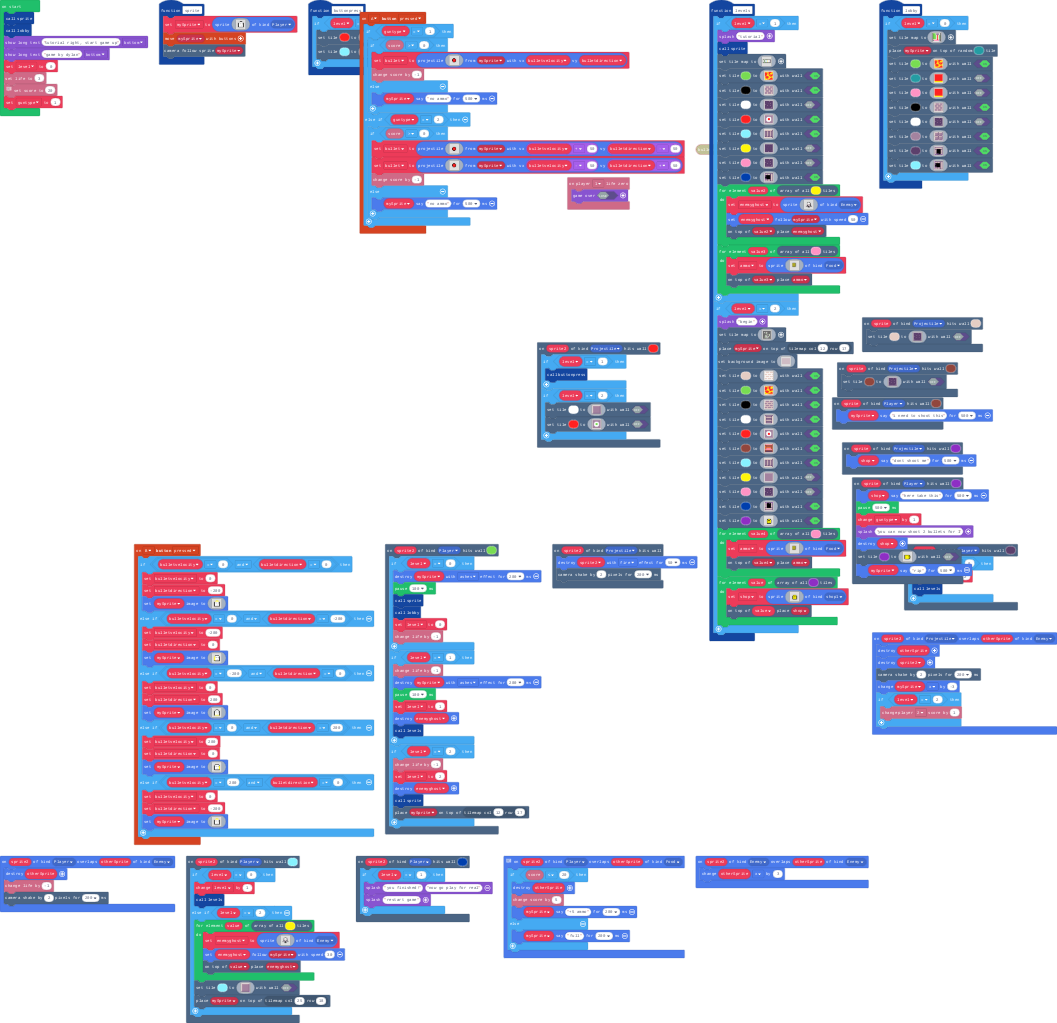
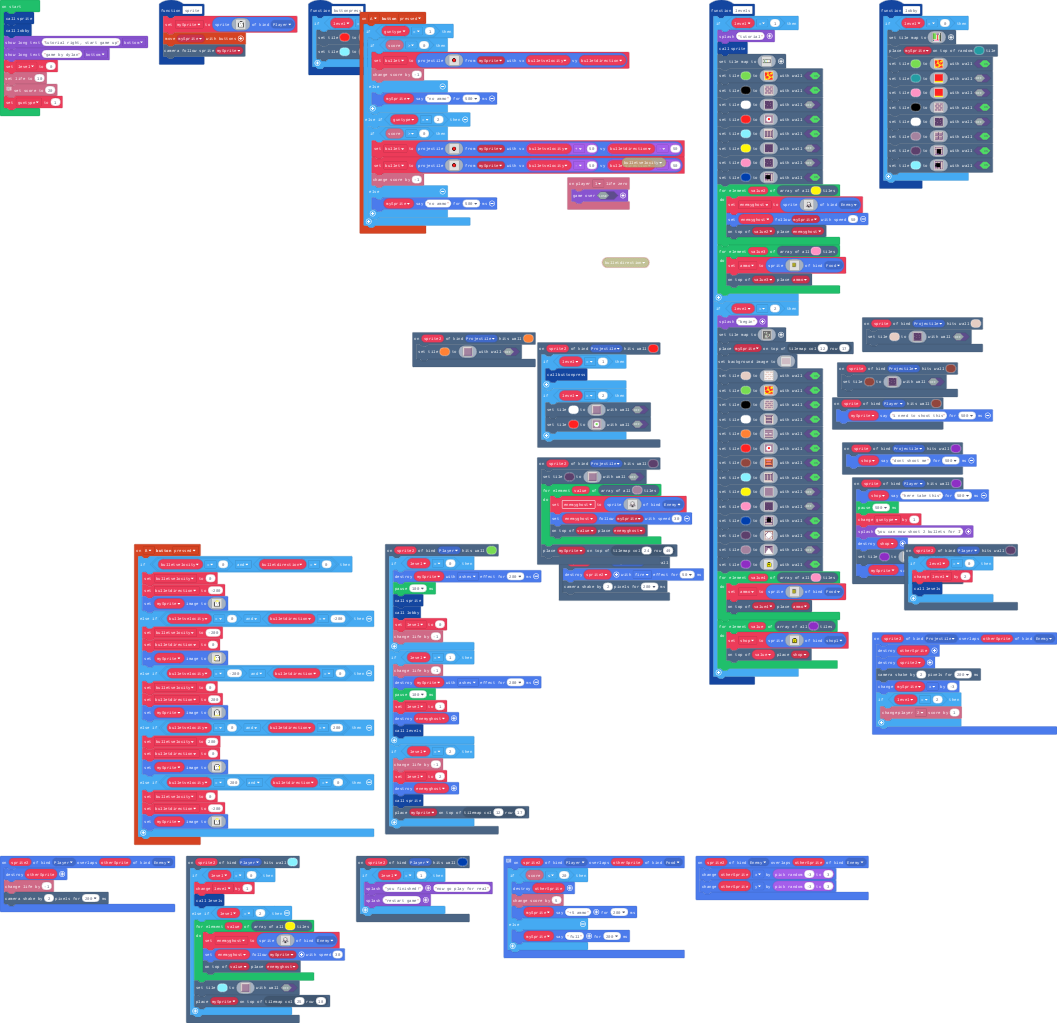
boss setup

diff --git a/main.ts b/main.ts
@@ -142,6 +142,26 @@ c c c c c c c b c c c c c c c c
 c c c c c c c c c c c c c c c c 
 `, false)
 })
+scene.onHitTile(SpriteKind.Projectile, 4, function (sprite2) {
+    scene.setTile(4, img`
+b d d d d d d d d d d d d d d c 
+d b b b b b b b b b b b b b b c 
+d b b b b b b b b b b b b b b c 
+d b b b b b b b b b b b b b b c 
+d b b b b b b b b b b b b b b c 
+d b b b b b b b b b b b b b b c 
+d b b b b b b b b b b b b b b c 
+d b b b b b b b b b b b b b b c 
+d b b b b b b b b b b b b b b c 
+d b b b b b b b b b b b b b b c 
+d b b b b b b b b b b b b b b c 
+d b b b b b b b b b b b b b b c 
+d b b b b b b b b b b b b b b c 
+d b b b b b b b b b b b b b b c 
+d b b b b b b b b b b b b b b c 
+c c c c c c c c c c c c c c c a 
+`, false)
+})
 scene.onHitTile(SpriteKind.Projectile, 13, function (sprite2) {
     scene.setTile(13, img`
 c c c c c c c c c c c c c c c c 
@@ -406,7 +426,8 @@ sprites.onOverlap(SpriteKind.Player, SpriteKind.Enemy, function (sprite2, otherS
     scene.cameraShake(2, 200)
 })
 sprites.onOverlap(SpriteKind.Enemy, SpriteKind.Enemy, function (sprite2, otherSprite) {
-    otherSprite.x += 3
+    otherSprite.x += Math.randomRange(-3, 3)
+    otherSprite.y += Math.randomRange(-3, 3)
 })
 function levels () {
     if (level == 1) {
@@ -668,28 +689,28 @@ f f f f f f f f f f f f f f f f f f f f f f f f f f f f f f f f f f f f f . . f 
 f f f f f f f f f f f f f f f f f f f 7 7 7 7 7 7 7 7 . 5 5 5 f f f f f f . . f f f f f f f f f 7 . . . . . . 7 f f f f f f f f 
 f f f f f f f f f f f f f f f f f f f 7 7 7 7 7 7 7 . . . . . f f f f f f . . f f f f f f f f f 7 . . . . . . 7 f f f f f f f f 
 f f f f f f f f f f f f f f f f f f f 7 7 7 7 7 7 . . . . . . . . d d . . . . f f f f f f f f f 7 . . . a . . 7 f f f f f f f f 
-f f f f f f f f f f f f f f f f f f f 7 7 7 7 . . . . . . . . . . d d . . . . f f f f f f f f f 7 7 . . . . . 7 f f f f f f f f 
-f f f f f f f f f f f f f f f f f f f 7 7 . . . . . . . . . . . . d d . . . . f f f f f f f f f f 7 . . . . . 7 f f f f f f f f 
-f f f f f f f f f f f f f f f f f f f 7 . . . . . . . . . . . . f f f f f f f f f f f f f f f f f 7 . . . . . 7 f f f f f f f f 
+f f f f f f f f f f f f f f f f f f f 7 7 7 7 5 5 d . . . . . . . d d . . . . f f f f f f f f f 7 7 . . 3 . . 7 f f f f f f f f 
+f f f f f f f f f f f f f f f f f f f 7 7 . . 5 5 d . . . . . . . d d . . . . f f f f f f f f f f 7 . . . . . 7 f f f f f f f f 
+f f f f f f f f f f f f f f f f f f f 7 . . . 5 5 d 3 . . . . . f f f f f f f f f f f f f f f f f 7 . . . . . 7 f f f f f f f f 
 f f f f f f f f f f f f f f f f f f f 7 . . f f f f f f f f f f f f f f f f f f f f f f f f f f f 7 . . . . . 7 f f f f f f f f 
 f f f f f f f f f f f f f f f f f f f 7 . . f f f f f f f f f f f f f f f f f f f f f f f f f f f 7 7 . . 7 7 7 f f f f f f f f 
 f f f f f f f f f f f f f f f f f f f 7 . . f f f f f f f f f f f f f f f f f f f f f f f f f f f 7 7 7 7 7 7 f f f f f f f f f 
 f f f f f f f f f f f f f f f f f f f 7 . . f f f f f f f f f f f f f f f f f f f f f f f f f f f f 7 7 7 7 7 f f f f f f f f f 
-f f f f f f f f f f f f f f f f f f f . . . . . . . . . . . . . . f f f f f f f f f f f f f f f f f 7 7 7 7 f f f f f f f f f f 
-f f f f f f f f f f f f f f f f f f f . . . . . . . . . . . . . . f f f f f f f f f f f f f f f f f f 7 7 f f f f f f f f f f f 
-f f f f f f f f f f f f f f f f f f f . . . . . . . . . . . . . . f f f f f f f f f . 2 . . . . . . . . . f f f f f f f f f f f 
-f f f f f f f f f f f f f f f . . . . . . . . . . . . . . . . . . f f f f f f f f f . . . . . . . . . . . f f f f f f f f f f f 
-f f f f f f f f f f f f f f f . . . . . . . . . . . . . . . . . . . . . . . . . . . . . . . . . . . . f f f f f f f f f f f f f 
-f f f f f f f f f f f f f f f . . f f f f f f f f f f f 7 . . . . . . . . . . . . . . . . . . . . . . f f f f f f f f f f f f f 
-f f f f f f f f f f f f f f f . . f 7 7 7 7 7 7 7 7 7 f 7 7 7 7 7 f f f f f f f f f . . . . . . . . . f f f f f f f f f f f f f 
-f f f f f f f f f f f f f f f . . f 7 7 7 7 7 7 7 7 7 f f f f f f f 7 7 7 7 7 7 7 f . . . . . . . . . f f f f f f f f f f f f f 
-f f f f f f f f f f f f f f f . . f 7 7 7 7 7 7 7 7 7 f 7 7 7 7 7 7 7 7 7 7 7 7 7 f . . . . . . . . . f f f f f f f f f f f f f 
-f f f f f f f f f f f f f f f . . f 7 7 7 7 7 7 7 7 7 f 7 7 7 7 7 7 7 7 7 7 7 7 7 f . . . . . . . . . f f f f f f f f f f f f f 
-f f f f f f f f f f f f f f f . . f 7 7 7 7 7 7 7 7 7 f f f f f f f f f f f f 7 7 7 f . . f f f f f f f f f f f f f f f f f f f 
-f f f f f f f f f f f f f f f . . f 7 7 7 7 7 7 7 7 7 f . . . . . . . . . . . f f f f . . f f f f f f f f f f f f f f f f f f f 
-f f f f f f f f f f f f f f f . . f f f f f f f f f f f . . . . . . . . . . . . . . . . . f f f f f f f f f f f f f f f f f f f 
-f f f f f f f f f f f f f f f . . . . . . . . . . . . . . . . . . . . . . . . . . . . . . f f f f f f f f f f f f f f f f f f f 
-f f f f f f f f f f f f f f f . . . . . . . . . . . . . . . . . . . . . . . . f f f f f f f f f f f f f f f f f f f f f f f f f 
+f f f f f f f f f f f f f f f f f f f c c c . . . . . . . . . . . f f f f f f f f f f f f f f f f f 7 7 7 7 f f f f f f f f f f 
+f f f f f f f f f f f f f f f f f f f c c c b . . . b . . . b . . f f f f f f f f f f f f f f f f f f 7 7 f f f f f f f f f f f 
+f f f f f f f f f f f f f f f f f f f b . . . . b . . . b . . . b f f f f f f f f f . 2 . . . . . . . 3 3 f f f f f f f f f f f 
+f f f f f f f f f f f f f f f . . c c . . . b . . . b . . . b . . f f f f f f f f f b . b . b . b . b 3 3 f f f f f f f f f f f 
+f f f f f f f f f f f f f f f . . c c . b . . . . . . . . . . . . . 4 4 4 4 4 4 4 . . . . . . . . . . f f f f f f f f f f f f f 
+f f f f f f f f f f f f f f f . . f f f . . . . . . . . . b . b . . 4 4 4 4 4 4 4 . . b . b . b . b . f f f f f f f f f f f f f 
+f f f f f f f f f f f f f f f . . f 7 f . . . . . . . . . . . . 3 f f f f f f f f f . . . . . . . . . f f f f f f f f f f f f f 
+f f f f f f f f f f f f f f f . . f 7 f . . . . . . . . . . . . 3 f 7 7 7 7 7 7 7 f b . b . b . b . b f f f f f f f f f f f f f 
+f f f f f f f f f f f f f f f . . f 7 f f f f f f f f f f f f f f f 7 7 7 7 7 7 7 f . . . . . . . . . f f f f f f f f f f f f f 
+f f f f f f f f f f f f f f f . . f 7 7 7 7 7 7 7 7 7 7 7 7 7 7 7 7 7 7 7 7 7 7 7 f . b . b . b . b . f f f f f f f f f f f f f 
+f f f f f f f f f f f f f f f . . f 7 7 7 7 7 7 7 7 7 f f f f f f f f f f f f 7 7 7 f f f f f f f f f f f f f f f f f f f f f f 
+f f f f f f f f f f f f f f f . . f 7 7 7 7 7 7 7 7 7 f . . . . . . . . . . . f f f f f f f f f f f f f f f f f f f f f f f f f 
+f f f f f f f f f f f f f f f . . f f f f f f f f f f f . . . . . . . . . . . f f f f f f f f f f f f f f f f f f f f f f f f f 
+f f f f f f f f f f f f f f f . . . . . . . . . . c c . . . . . . . . . . . . f f f f f f f f f f f f f f f f f f f f f f f f f 
+f f f f f f f f f f f f f f f 5 5 5 5 5 5 5 5 5 5 c c . . . . . . . . . . . . f f f f f f f f f f f f f f f f f f f f f f f f f 
 f f f f f f f f f f f f f f f f f f f f f f f f f f f f 1 1 1 1 1 1 1 1 1 1 f f f f f f f f f f f f f f f f f f f f f f f f f f 
 f f f f f f f f f f f f f f f f f f f f f f f f f f f f . . . . . . . . . . f f f f f f f f f f f f f f f f f f f f f f f f f f 
 f f f f f f f f f f f f f f f f f f f f f f f f f f f f . . . . . . . . . . f f f f f f f f f f f f f f f f f f f f f f f f f f 
@@ -893,6 +914,24 @@ d d b d d d d d d d d d d b d d
 d d c b b b b b b b b b b c d d 
 d d c c c c c c c c c c c c d d 
 `, true)
+        scene.setTile(4, img`
+c c c c c c c c c c c c c c c c 
+b b b b b b b b b b b b b b b b 
+d d d d d d d d d d d d d d d d 
+b b b b b b b b b b b b b b b b 
+b b b b b b b b b b b b b b b b 
+b b b b b b b b b b b b b b b b 
+b b b b b b b b b b b b b b b b 
+b 1 1 1 1 d b b b 1 1 1 1 d b b 
+b d 1 1 1 1 b b b d 1 1 1 1 b b 
+b b b b b b b b b b b b b b b b 
+b b b b b b b b b b b b b b b b 
+b b b b b b b b b b b b b b b b 
+b b b b b b b b b b b b b b b b 
+d d d d d d d d d d d d d d d d 
+b b b b b b b b b b b b b b b b 
+c c c c c c c c c c c c c c c c 
+`, true)
         scene.setTile(2, img`
 b b b b b b b b b b b b b b b b 
 b b b b b b b b b b b b b b b b 
@@ -1001,6 +1040,42 @@ c d d d d d d d d d d d d d d c
 c b b b b b b b b b b b b b b c 
 c b b b b b b b b b b b b b b c 
 `, true)
+        scene.setTile(12, img`
+b e e e e e e c c e e e e e e e 
+e 1 1 1 1 1 c d d c 1 1 1 1 1 e 
+e 1 1 1 1 c d 1 1 1 c 1 1 1 1 e 
+e 1 1 1 c d 1 1 1 1 1 c 1 1 1 e 
+e 1 1 c d 1 1 1 1 1 1 1 c 1 1 e 
+e 1 c d 1 1 1 1 1 1 1 1 1 c 1 e 
+e c d 1 1 1 1 1 1 1 1 1 1 1 c b 
+c d 1 1 1 1 1 1 1 1 1 1 1 1 1 c 
+c d 1 1 1 1 1 1 1 1 1 1 1 1 c d 
+e c 1 1 1 1 1 1 1 1 1 1 1 c d e 
+e 1 c 1 1 1 1 1 1 1 1 1 c d 1 e 
+e 1 1 c 1 1 1 1 1 1 1 c d 1 1 e 
+e 1 1 1 c 1 1 1 1 1 c d 1 1 1 e 
+e 1 1 1 1 c 1 1 1 c d 1 1 1 1 e 
+e 1 1 1 1 1 c 1 c d 1 1 1 1 1 e 
+e e e e e e b c d e e e e e e a 
+`, true)
+        scene.setTile(11, img`
+c c c c c c c c c c c c c c c c 
+c c c c c c c c c c c c c c c b 
+c b b c c c c c c c c c c b b b 
+c b b b b c c c c c c b b b b b 
+c b b b b b b b b b b b b b b b 
+c b b b b b b 1 1 b b b b b b b 
+c b b b b b d 1 1 d b b b b b b 
+c b b b b b 1 1 1 1 b b b b b b 
+c b b b b 1 1 1 1 1 1 b b b b b 
+c b b b d 1 1 1 1 1 1 d b b b b 
+c b b b 1 1 1 1 1 1 1 1 b b b b 
+c b b 1 1 1 1 1 1 1 1 1 1 b b b 
+c b d 1 1 1 1 1 1 1 1 1 1 d b b 
+c b 1 1 1 1 1 1 1 1 1 1 1 1 b b 
+c 1 1 1 1 1 1 1 1 1 1 1 1 1 1 b 
+d 1 1 1 1 1 1 1 1 1 1 1 1 1 1 d 
+`, false)
         scene.setTile(10, img`
 . . . . . . . . . . . . . . . . 
 . . . . . . . . . . . . . . . . 
@@ -1266,6 +1341,57 @@ a c c c c c c c c c c c c c c c
 scene.onHitTile(SpriteKind.Projectile, 10, function (sprite2) {
     shop.say("dont shoot me", 500)
 })
+scene.onHitTile(SpriteKind.Projectile, 12, function (sprite2) {
+    scene.setTile(12, img`
+b d d d d d d d d d d d d d d c 
+d b b b b b b b b b b b b b b c 
+d b b b b b b b b b b b b b b c 
+d b b b b b b b b b b b b b b c 
+d b b b b b b b b b b b b b b c 
+d b b b b b b b b b b b b b b c 
+d b b b b b b b b b b b b b b c 
+d b b b b b b b b b b b b b b c 
+d b b b b b b b b b b b b b b c 
+d b b b b b b b b b b b b b b c 
+d b b b b b b b b b b b b b b c 
+d b b b b b b b b b b b b b b c 
+d b b b b b b b b b b b b b b c 
+d b b b b b b b b b b b b b b c 
+d b b b b b b b b b b b b b b c 
+c c c c c c c c c c c c c c c a 
+`, false)
+    for (let value of scene.getTilesByType(11)) {
+        enemyghost = sprites.create(img`
+. . . . . . . . . . . . . . . . . . . . . . . . 
+. . . . . . . . . . . . . . . . . . . . . . . . 
+. . . . . . . . . . . . . . . . . . . . . . . . 
+. . . . . . . . . . . . . . . . . . . . . . . . 
+. . . . . . . . . . f f f f . . . . . . . . . . 
+. . . . . . . . f f 1 1 1 1 f f . . . . . . . . 
+. . . . . . . f b 1 1 1 1 1 1 b f . . . . . . . 
+. . . . . . . f 1 1 1 1 1 1 1 1 f . . . . . . . 
+. . . . . . f d 1 1 1 1 1 1 1 1 d f . . . . . . 
+. . . . . . f d 1 1 1 1 1 1 1 1 d f . . . . . . 
+. . . . . . f d d d 1 1 1 1 d d d f . . . . . . 
+. . . . . . f b d b f d d f b d b f . . . . . . 
+. . . . . . f c d c f 1 1 f c d c f . . . . . . 
+. . . . . . . f b 1 1 1 1 1 1 b f . . . . . . . 
+. . . . . . f f f c d b 1 b d f f f f . . . . . 
+. . . . f c 1 1 1 c b f b f c 1 1 1 c f . . . . 
+. . . . f 1 b 1 b 1 f f f f 1 b 1 b 1 f . . . . 
+. . . . f b f b f f f f f f b f b f b f . . . . 
+. . . . . . . . . f f f f f f . . . . . . . . . 
+. . . . . . . . . . . f f f . . . . . . . . . . 
+. . . . . . . . . . . . . . . . . . . . . . . . 
+. . . . . . . . . . . . . . . . . . . . . . . . 
+. . . . . . . . . . . . . . . . . . . . . . . . 
+. . . . . . . . . . . . . . . . . . . . . . . . 
+`, SpriteKind.Enemy)
+        enemyghost.follow(mySprite, 30)
+        scene.place(value, enemyghost)
+    }
+    tiles.placeOnTile(mySprite, tiles.getTileLocation(24, 49))
+})
 info.player1.onLifeZero(function () {
     game.over(false)
 })
@@ -1326,7 +1452,7 @@ lobby()
 game.showLongText("tutorial right, start game up", DialogLayout.Bottom)
 game.showLongText("game by dylan", DialogLayout.Bottom)
 level = 0
-info.setLife(3)
+info.setLife(10)
 // ammo
 info.setScore(20)
 guntype = 1
